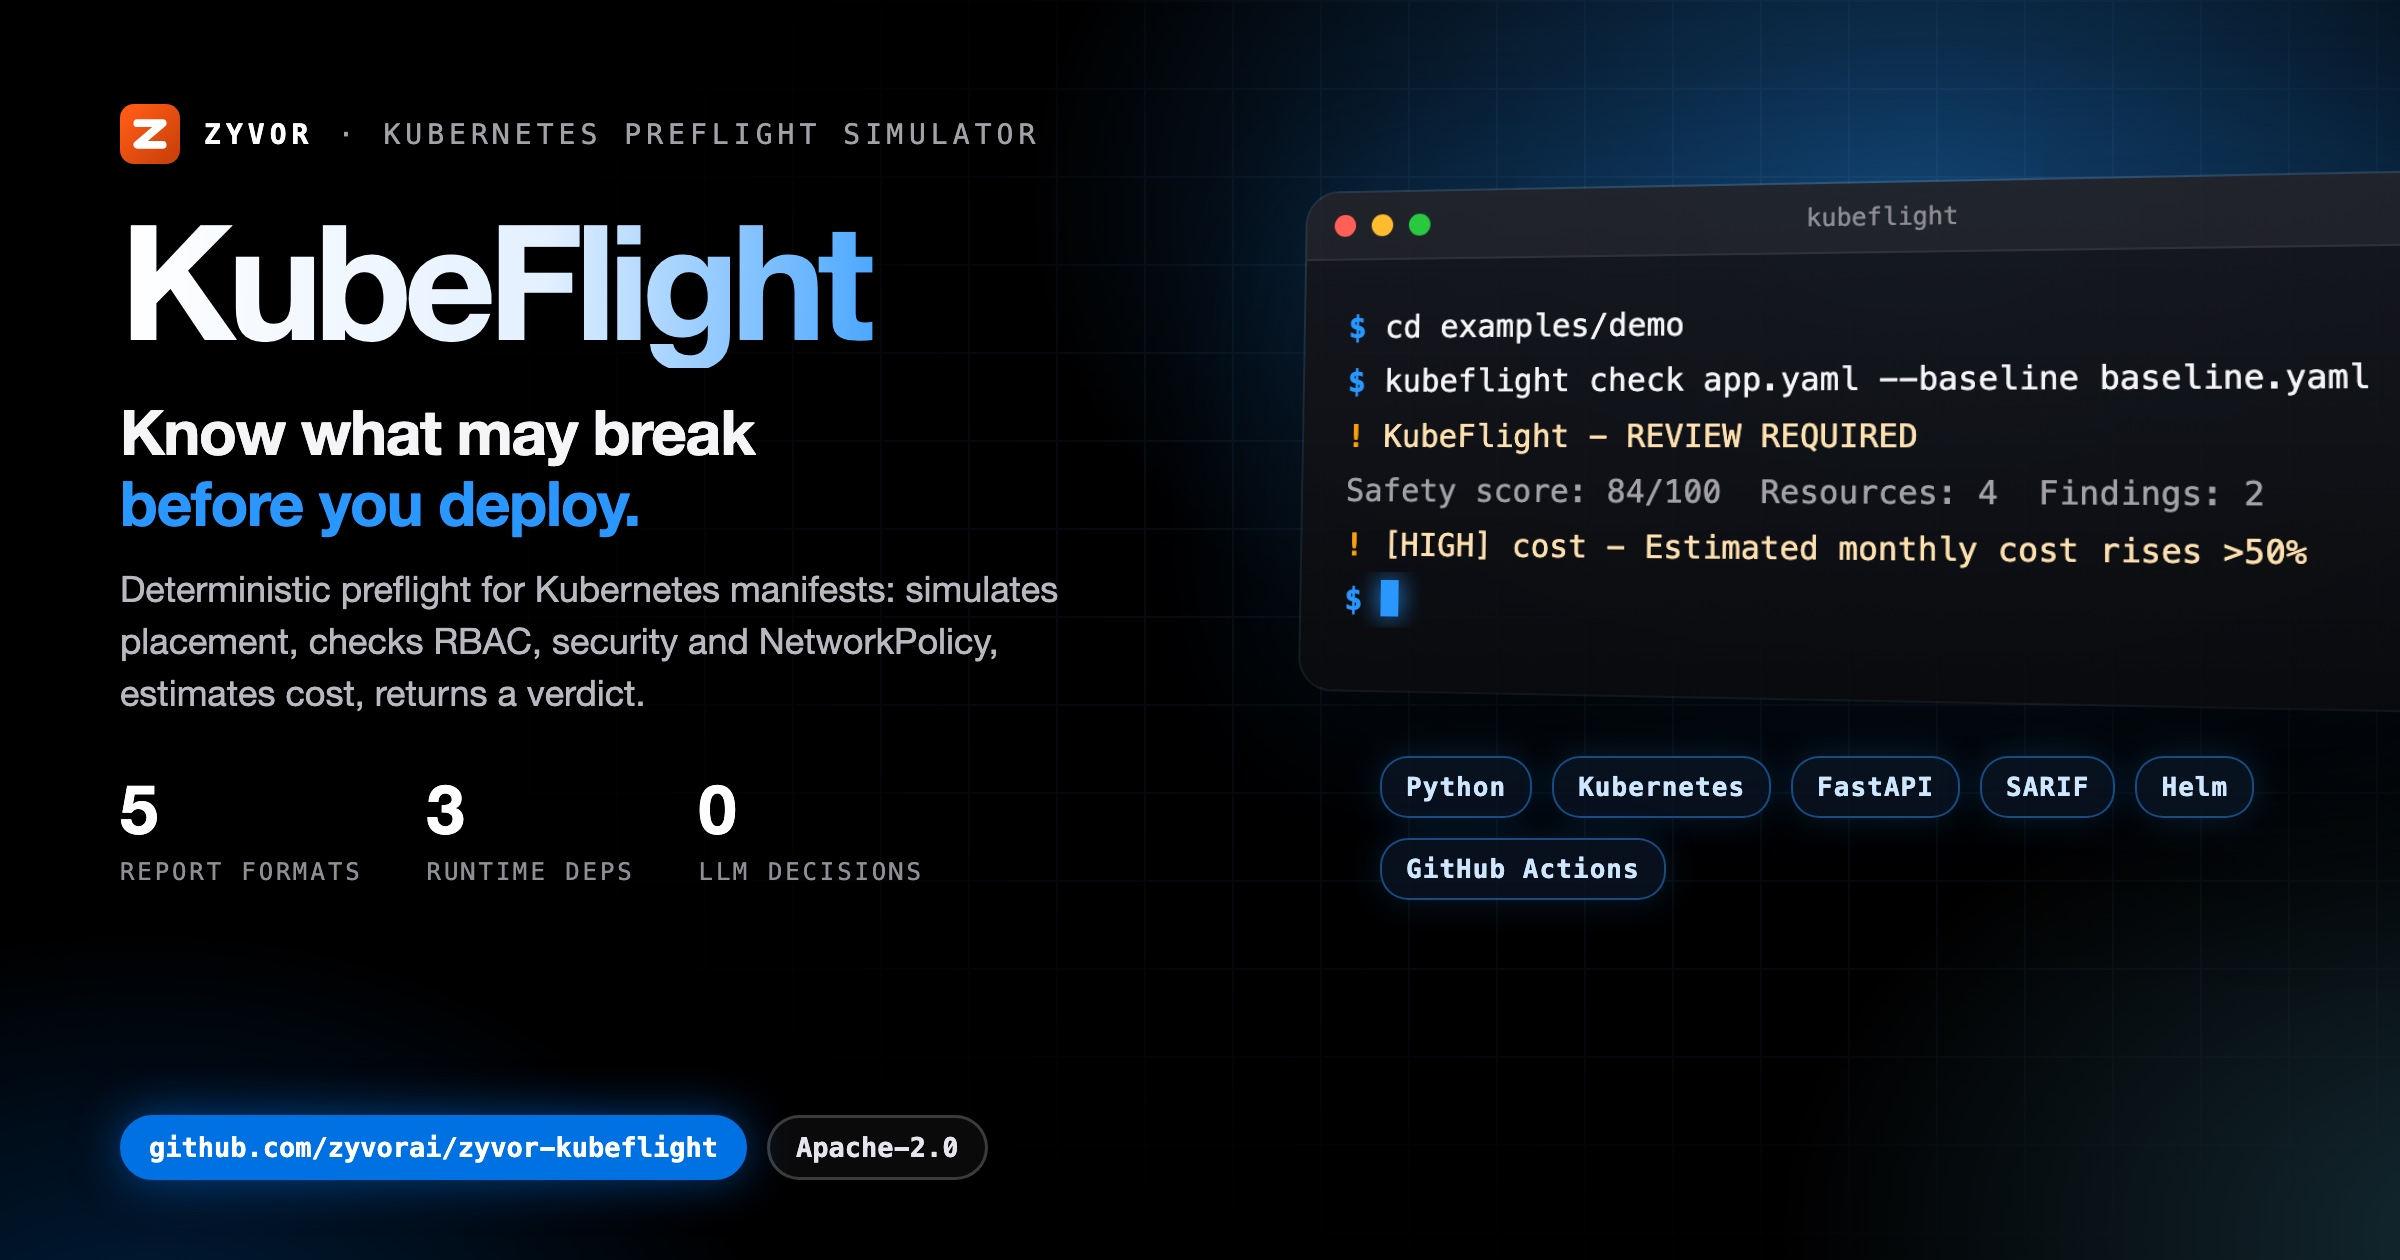
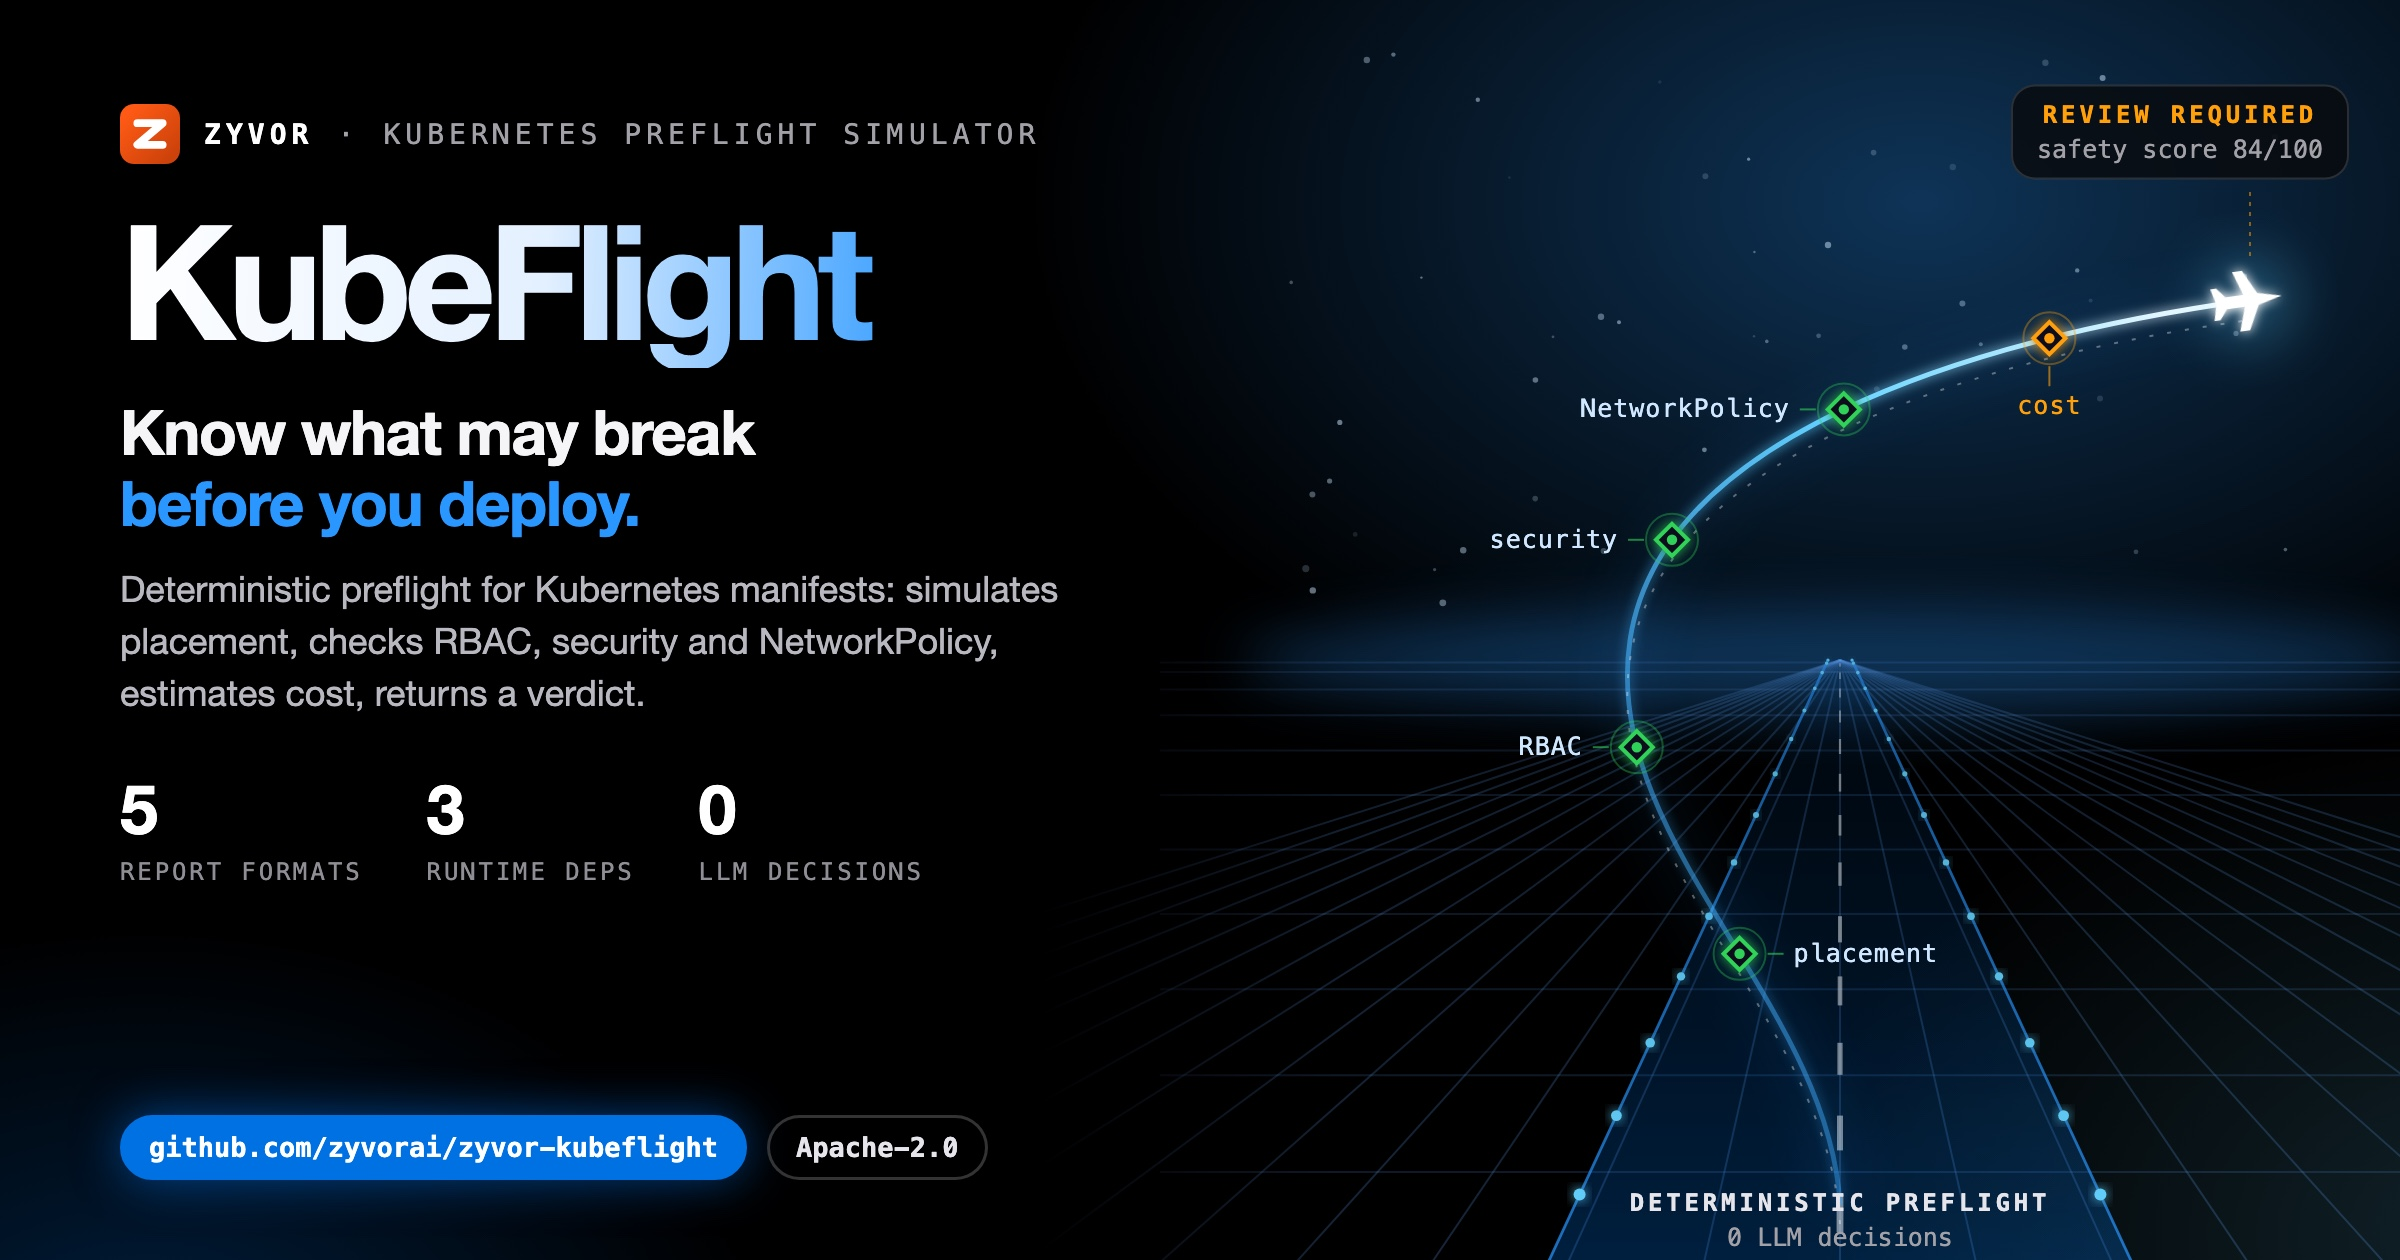
docs(social): unique illustrated hero card
Replace the shared terminal-window art with a motif drawn for this project;
same verified copy and stats on the left.

Changed region(s): [[0.5312, 0.0619, 1.0, 1.0], [0.9375, 0.7119, 1.0, 0.7429]]

diff --git a/docs/social/kubeflight-hero-dark.html b/docs/social/kubeflight-hero-dark.html
@@ -8,58 +8,47 @@
   Build: ./docs/social/build-hero-dark.sh  ->  kubeflight-hero-dark.jpg (2400x1260)
 -->
 <style>
-  :root { --blue:#0071e3; --signal:#2997ff; --cyan:#64d2ff; --green:#30d158; --amber:#ff9f0a;
+  :root { --blue:#0071e3; --signal:#2997ff; --cyan:#64d2ff; --green:#30d158; --amber:#ff9f0a; --red:#ff453a; --violet:#bf5af2;
     --sans:'SF Pro Display','Helvetica Neue',Helvetica,Arial,sans-serif; --mono:'SF Mono',Menlo,Consolas,monospace; }
   * { box-sizing:border-box; }
   html,body { margin:0; padding:0; }
   body { width:1200px; height:630px; overflow:hidden; color:#f5f5f7; font-family:var(--sans); position:relative; background:#000; }
   .aurora { position:absolute; inset:0;
-    background:radial-gradient(720px 460px at 80% 16%, rgba(41,151,255,.40), transparent 62%),
-               radial-gradient(600px 420px at 104% 98%, rgba(100,210,255,.20), transparent 60%),
+    background:radial-gradient(720px 460px at 80% 16%, rgba(41,151,255,.34), transparent 62%),
+               radial-gradient(600px 420px at 104% 98%, rgba(100,210,255,.16), transparent 60%),
                radial-gradient(520px 380px at 6% 110%, rgba(0,113,227,.28), transparent 60%); }
-  .grid { position:absolute; inset:0; opacity:.09;
-    background-image:linear-gradient(rgba(120,180,255,.9) 1px,transparent 1px),linear-gradient(90deg,rgba(120,180,255,.9) 1px,transparent 1px);
-    background-size:44px 44px; -webkit-mask-image:radial-gradient(900px 520px at 72% 42%, #000 18%, transparent 75%); }
-  .left { position:absolute; left:60px; top:52px; width:560px; z-index:3; }
+  .copy { position:absolute; left:60px; top:52px; width:560px; z-index:3; }
   .brand { display:flex; align-items:center; gap:12px; font-family:var(--mono); font-size:14px; letter-spacing:.18em; text-transform:uppercase; color:#a1a1a6; }
   .brand b { color:#fff; }
   .word { margin:20px 0 0; font-size:80px; line-height:.95; font-weight:800; letter-spacing:-.05em; white-space:nowrap;
     background:linear-gradient(92deg,#fff 0%,#e3f0ff 38%,var(--signal) 74%,var(--cyan) 100%); -webkit-background-clip:text; background-clip:text; color:transparent; padding-bottom:6px; }
   .tag { margin:14px 0 0; font-size:31px; line-height:1.15; font-weight:700; letter-spacing:-.02em; }
   .tag em { font-style:normal; color:var(--signal); }
-  .lede { margin:12px 0 0; font-size:18px; line-height:1.45; color:#b8b8bf; width:520px; }
+  .lede { margin:12px 0 0; font-size:18px; line-height:1.45; color:#b8b8bf; width:520px; text-shadow:0 1px 12px #000; }
   .stats { margin-top:24px; display:flex; gap:32px; }
   .stat b { display:block; font-size:34px; font-weight:800; letter-spacing:-.03em; color:#fff; }
   .stat span { font-family:var(--mono); font-size:12px; letter-spacing:.12em; text-transform:uppercase; color:#8e8e93; }
   .pill { position:absolute; left:60px; bottom:40px; display:flex; gap:10px; z-index:3; }
-  .pill span { font-family:var(--mono); font-size:13.5px; font-weight:700; padding:7px 13px; border-radius:18px; border:1.5px solid rgba(255,255,255,.2); color:#e5e5ea; background:rgba(255,255,255,.04); }
+  .pill span { font-family:var(--mono); font-size:13.5px; font-weight:700; padding:7px 13px; border-radius:18px; border:1.5px solid rgba(255,255,255,.2); color:#e5e5ea; background:rgba(0,0,0,.6); }
   .pill span.b { background:var(--blue); border-color:var(--blue); color:#fff; box-shadow:0 0 24px rgba(0,113,227,.55); }
-
-  .right { position:absolute; left:652px; top:96px; width:560px; z-index:2; }
-  .win { position:relative; width:560px; border-radius:16px; overflow:hidden; z-index:2;
-    background:linear-gradient(180deg, rgba(22,24,30,.94), rgba(10,11,14,.96));
-    box-shadow:0 50px 100px rgba(0,0,0,.75), 0 0 0 1px rgba(255,255,255,.14), 0 0 90px rgba(41,151,255,.22);
-    transform:perspective(1600px) rotateY(-14deg) rotateX(4deg); transform-origin:left center; }
-  .bar { height:34px; display:flex; align-items:center; gap:8px; padding:0 14px; background:rgba(255,255,255,.05); border-bottom:1px solid rgba(255,255,255,.07); }
-  .bar i { width:11px; height:11px; border-radius:50%; background:#ff5f57; } .bar i:nth-child(2){background:#febc2e} .bar i:nth-child(3){background:#28c840}
-  .bar em { margin-left:auto; margin-right:auto; font-style:normal; font-family:var(--mono); font-size:12px; color:#8e8e93; transform:translateX(-24px); }
-  .term { min-height:214px; padding:20px 22px 24px; font-family:var(--mono); font-size:15.5px; line-height:1.75; }
-  .l { white-space:pre; overflow:hidden; text-overflow:ellipsis; color:#f5f5f7; }
-  .l .p { color:var(--signal); font-weight:700; }
-  .l.out { color:#a1a1a6; }
-  .l.cm { color:#6e6e73; }
-  .l.ok { color:#d1f7dc; } .l.ok span { color:var(--green); font-weight:700; }
-  .l.warn { color:#ffe1b0; } .l.warn span { color:var(--amber); font-weight:700; }
-  .cur { display:inline-block; width:9px; height:18px; background:var(--signal); vertical-align:-3px; box-shadow:0 0 12px var(--signal); }
-  .chips { margin:34px 0 0 38px; width:480px; display:flex; flex-wrap:wrap; gap:10px; position:relative; z-index:3; }
-  .chips span { font-family:var(--mono); font-size:13px; font-weight:700; letter-spacing:.04em; padding:7px 12px; border-radius:14px;
-    color:#cfe6ff; background:rgba(10,20,35,.82); border:1px solid rgba(41,151,255,.45); box-shadow:0 0 18px rgba(41,151,255,.18); }
+  .art { position:absolute; left:520px; top:0; width:680px; height:630px; z-index:2; }
+  .art svg { display:block; }
+  #labels { position:absolute; inset:0; z-index:4; pointer-events:none; }
+  .lbl { position:absolute; font-family:var(--mono); font-size:12.5px; color:#a1a1a6; text-align:center; transform:translate(-50%,-50%); white-space:nowrap; }
+  .lbl b { display:block; font-size:12px; letter-spacing:.16em; text-transform:uppercase; color:#e5e5ea; }
+  .lbl span { display:block; margin-top:3px; }
+  .lbl.box { padding:7px 12px; border-radius:12px; background:rgba(8,10,14,.85); border:1px solid rgba(255,255,255,.14); }
+  .lbl.chip { padding:6px 11px; border-radius:13px; font-size:12.5px; font-weight:700; color:#cfe6ff; background:rgba(10,20,35,.85); border:1px solid rgba(41,151,255,.5); box-shadow:0 0 16px rgba(41,151,255,.2); }
+  .lbl.left { transform:translate(0,-50%); text-align:left; }
+  .lbl.right { transform:translate(-100%,-50%); text-align:right; }
+  .ok { color:var(--green) !important; } .warn { color:var(--amber) !important; } .bad { color:var(--red) !important; } .sig { color:var(--signal) !important; } .cy { color:var(--cyan) !important; } .vi { color:var(--violet) !important; }
 </style>
 </head>
 <body>
 <div class="aurora"></div>
-<div class="grid"></div>
-<div class="left">
+<div class="art"><svg id="art" width="680" height="630" viewBox="0 0 680 630" xmlns="http://www.w3.org/2000/svg"></svg></div>
+<div id="labels"></div>
+<div class="copy">
   <div class="brand"><svg viewBox="0 0 64 64" width="30" height="30" aria-hidden="true"><defs><linearGradient id="zb" x1="8" y1="8" x2="56" y2="56" gradientUnits="userSpaceOnUse"><stop offset="0" stop-color="#ff5a15"/><stop offset="1" stop-color="#cc420a"/></linearGradient></defs><rect width="64" height="64" rx="15" fill="url(#zb)"/><path d="M18.5,20.5 45.5,20.5 18.5,43.5 45.5,43.5" fill="none" stroke="#fff" stroke-width="8.3" stroke-linecap="round" stroke-linejoin="round"/></svg><b>Zyvor</b><span>&middot;</span><span>Kubernetes preflight simulator</span></div>
   <div class="word">KubeFlight</div>
   <div class="tag">Know what may break<br><em>before you deploy.</em></div>
@@ -67,8 +56,106 @@
   <div class="stats"><div class="stat"><b>5</b><span>report formats</span></div><div class="stat"><b>3</b><span>runtime deps</span></div><div class="stat"><b>0</b><span>LLM decisions</span></div></div>
 </div>
 <div class="pill"><span class="b">github.com/zyvorai/zyvor-kubeflight</span><span>Apache-2.0</span></div>
-<div class="right"><div class="win"><div class="bar"><i></i><i></i><i></i><em>kubeflight</em></div>
-<div class="term"><div class="l"><span class="p">$</span> cd examples/demo</div><div class="l"><span class="p">$</span> kubeflight check app.yaml --baseline baseline.yaml</div><div class="l warn"><span>!</span> KubeFlight - REVIEW REQUIRED</div><div class="l out">Safety score: 84/100  Resources: 4  Findings: 2</div><div class="l warn"><span>!</span> [HIGH] cost - Estimated monthly cost rises &gt;50%</div><div class="l"><span class="p">$</span> <i class="cur"></i></div></div></div>
-<div class="chips"><span>Python</span><span>Kubernetes</span><span>FastAPI</span><span>SARIF</span><span>Helm</span><span>GitHub Actions</span></div></div>
+<script>
+var Z = (function () {
+  var NS = 'http://www.w3.org/2000/svg', svg = document.getElementById('art'), labels = document.getElementById('labels');
+  var seed = 20261004;
+  function rnd() { seed = (seed * 1103515245 + 12345) % 2147483648; return seed / 2147483648; }
+  function el(tag, a, parent) { var n = document.createElementNS(NS, tag); for (var k in a) n.setAttribute(k, a[k]); (parent || svg).appendChild(n); return n; }
+  function g(attrs) { return el('g', attrs || {}); }
+  function label(x, y, inner, cls, style) { var d = document.createElement('div'); d.className = 'lbl ' + (cls || ''); d.style.left = (520 + x) + 'px'; d.style.top = y + 'px'; if (style) d.setAttribute('style', d.getAttribute('style') + ';' + style); d.innerHTML = inner; labels.appendChild(d); return d; }
+  return { NS: NS, svg: svg, W: 680, H: 630, rnd: rnd, el: el, g: g, label: label,
+    reseed: function (s) { seed = s; },
+    c: { blue: '#0071e3', signal: '#2997ff', cyan: '#64d2ff', green: '#30d158', amber: '#ff9f0a', red: '#ff453a', violet: '#bf5af2', teal: '#40c8e0', indigo: '#5e5ce6', pink: '#ff375f', white: '#f5f5f7', grey: '#8e8e93' } };
+})();
+(function () {
+// KubeFlight: a take-off trajectory over a perspective runway grid; five preflight checkpoints along the climb
+// and a final verdict gate at the top.
+var C = Z.c, vx = 400, hy = 330;
+var defs = Z.el('defs', {});
+defs.innerHTML = '<filter id="kf-gl" x="-50%" y="-50%" width="200%" height="200%"><feGaussianBlur stdDeviation="3" result="b"/><feMerge><feMergeNode in="b"/><feMergeNode in="SourceGraphic"/></feMerge></filter>' +
+  '<filter id="kf-sf" x="-50%" y="-50%" width="200%" height="200%"><feGaussianBlur stdDeviation="14"/></filter>' +
+  '<linearGradient id="kf-fade" x1="0" y1="0" x2="0" y2="1"><stop offset="0" stop-color="#fff" stop-opacity="0"/><stop offset=".35" stop-color="#fff" stop-opacity=".7"/><stop offset="1" stop-color="#fff" stop-opacity="1"/></linearGradient>' +
+  '<linearGradient id="kf-fadex" x1="0" y1="0" x2="1" y2="0"><stop offset="0" stop-color="#000"/><stop offset=".22" stop-color="#fff"/><stop offset="1" stop-color="#fff"/></linearGradient>' +
+  '<mask id="kf-m"><rect x="0" y="0" width="680" height="630" fill="url(#kf-fade)"/></mask>' +
+  '<mask id="kf-mx"><rect x="0" y="0" width="680" height="630" fill="url(#kf-fadex)"/></mask>' +
+  '<linearGradient id="kf-trail" x1="0" y1="1" x2="1" y2="0"><stop offset="0" stop-color="#2997ff" stop-opacity=".15"/><stop offset=".6" stop-color="#64d2ff"/><stop offset="1" stop-color="#ffffff"/></linearGradient>' +
+  '<linearGradient id="kf-rw" x1="0" y1="0" x2="0" y2="1"><stop offset="0" stop-color="#0071e3" stop-opacity=".05"/><stop offset="1" stop-color="#0071e3" stop-opacity=".28"/></linearGradient>';
+function f(v) { return v.toFixed(1); }
+
+// horizon glow
+Z.el('ellipse', { cx: vx, cy: hy, rx: 300, ry: 26, fill: '#2997ff', opacity: .28, filter: 'url(#kf-sf)' });
+
+// perspective ground grid, masked to fade toward horizon and away from the left text
+var gx = Z.g({ mask: 'url(#kf-mx)' }), gg = Z.g({ mask: 'url(#kf-m)' }, gx);
+gx.appendChild(gg);
+for (var k = -14; k <= 14; k++) {
+  var bx = vx + k * 70;
+  Z.el('line', { x1: vx, y1: hy, x2: bx, y2: 640, stroke: 'rgba(100,170,255,.22)', 'stroke-width': 1 }, gg);
+}
+for (var k = 1; k <= 12; k++) {
+  var y = hy + (640 - hy) * Math.pow(k / 12, 2.2);
+  Z.el('line', { x1: 60, y1: f(y), x2: 680, y2: f(y), stroke: 'rgba(100,170,255,.16)', 'stroke-width': 1 }, gg);
+}
+// runway
+var rwL = vx - 150, rwR = vx + 150;
+Z.el('path', { d: 'M' + (vx - 6) + ',' + hy + ' L' + (vx + 6) + ',' + hy + ' L' + rwR + ',640 L' + rwL + ',640Z', fill: 'url(#kf-rw)' }, gg);
+Z.el('line', { x1: vx - 6, y1: hy, x2: rwL, y2: 640, stroke: C.signal, 'stroke-width': 1.4, opacity: .7 }, gg);
+Z.el('line', { x1: vx + 6, y1: hy, x2: rwR, y2: 640, stroke: C.signal, 'stroke-width': 1.4, opacity: .7 }, gg);
+for (var k = 0; k < 14; k++) {
+  var t0 = Math.pow(k / 14, 2), t1 = Math.pow((k + 0.45) / 14, 2);
+  var y0 = hy + (640 - hy) * t0, y1 = hy + (640 - hy) * t1;
+  Z.el('line', { x1: vx, y1: f(y0), x2: vx, y2: f(y1), stroke: '#fff', 'stroke-width': (0.6 + t1 * 3).toFixed(1), opacity: .5 }, gg);
+  var lx = vx - 6 - (150 - 6) * t0, rx = vx + 6 + (150 - 6) * t0;
+  Z.el('circle', { cx: f(lx), cy: f(y0), r: (0.8 + t0 * 2.6).toFixed(1), fill: C.cyan, filter: 'url(#kf-gl)' }, gg);
+  Z.el('circle', { cx: f(rx), cy: f(y0), r: (0.8 + t0 * 2.6).toFixed(1), fill: C.cyan, filter: 'url(#kf-gl)' }, gg);
+}
+
+// stars
+for (var i = 0; i < 46; i++) { var x = 120 + Z.rnd() * 540, y = 24 + Z.rnd() * 280; Z.el('circle', { cx: f(x), cy: f(y), r: (0.6 + Z.rnd() * 1.2).toFixed(1), fill: '#cfe8ff', opacity: (0.1 + Z.rnd() * 0.4).toFixed(2) }); }
+
+// trajectory: from the runway threshold climbing up and to the right
+var d = 'M' + vx + ',602 C' + (vx - 6) + ',500 ' + (vx - 120) + ',420 ' + (vx - 105) + ',320 C' + (vx - 90) + ',220 ' + (vx + 60) + ',170 ' + (vx + 205) + ',150';
+var path = Z.el('path', { d: d, fill: 'none', stroke: 'none' });
+var L = path.getTotalLength();
+Z.el('path', { d: d, fill: 'none', stroke: C.signal, 'stroke-width': 12, opacity: .12, filter: 'url(#kf-sf)' });
+Z.el('path', { d: d, fill: 'none', stroke: 'url(#kf-trail)', 'stroke-width': 2.4, filter: 'url(#kf-gl)' });
+Z.el('path', { d: d, fill: 'none', stroke: 'rgba(255,255,255,.35)', 'stroke-width': 1, 'stroke-dasharray': '2 7', transform: 'translate(0,10)' });
+
+// checkpoints
+var cps = [
+  { t: 0.2, n: 'placement', c: C.green, side: 1 },
+  { t: 0.37, n: 'RBAC', c: C.green, side: -1 },
+  { t: 0.53, n: 'security', c: C.green, side: -1 },
+  { t: 0.69, n: 'NetworkPolicy', c: C.green, side: -1 },
+  { t: 0.85, n: 'cost', c: C.amber, side: 0 }
+];
+cps.forEach(function (cp) {
+  var p = path.getPointAtLength(L * cp.t);
+  var g = Z.g({ transform: 'translate(' + f(p.x) + ',' + f(p.y) + ')' });
+  Z.el('circle', { r: 13, fill: 'none', stroke: cp.c, 'stroke-width': 1, opacity: .35 }, g);
+  Z.el('path', { d: 'M0,-8 L8,0 L0,8 L-8,0Z', fill: '#07101c', stroke: cp.c, 'stroke-width': 2, filter: 'url(#kf-gl)' }, g);
+  Z.el('circle', { r: 2.6, fill: cp.c }, g);
+  var lx = p.x + cp.side * 22, below = cp.side === 0;
+  if (below) Z.el('line', { x1: f(p.x), y1: f(p.y + 14), x2: f(p.x), y2: f(p.y + 24), stroke: cp.c, opacity: .6 });
+  else Z.el('line', { x1: f(p.x + cp.side * 14), y1: f(p.y), x2: f(lx), y2: f(p.y), stroke: cp.c, opacity: .6 });
+  var tx = Z.el('text', { x: f(below ? p.x : lx + cp.side * 5), y: f(below ? p.y + 38 : p.y + 4), fill: cp.c === C.amber ? C.amber : '#cfe8ff', 'font-family': 'ui-monospace, SFMono-Regular, Menlo, monospace', 'font-size': 12.5, 'letter-spacing': '.04em', 'text-anchor': below ? 'middle' : (cp.side > 0 ? 'start' : 'end') });
+  tx.textContent = cp.n;
+});
+
+// aircraft at the end of the path
+var pe = path.getPointAtLength(L), pb = path.getPointAtLength(L - 4);
+var ang = Math.atan2(pe.y - pb.y, pe.x - pb.x) * 180 / Math.PI;
+var ac = Z.g({ transform: 'translate(' + f(pe.x) + ',' + f(pe.y) + ') rotate(' + f(ang) + ')' });
+Z.el('circle', { r: 22, fill: C.cyan, opacity: .3, filter: 'url(#kf-sf)' }, ac);
+Z.el('path', { d: 'M16,0 L4,-3 L-2,-15 L-7,-15 L-3,-3 L-12,-3 L-16,-8 L-19,-8 L-17,0 L-19,8 L-16,8 L-12,3 L-3,3 L-7,15 L-2,15 L4,3Z', fill: '#fff', filter: 'url(#kf-gl)' }, ac);
+
+// verdict
+var pv = path.getPointAtLength(L);
+Z.el('line', { x1: f(pv.x), y1: f(pv.y - 22), x2: f(pv.x), y2: 96, stroke: C.amber, 'stroke-width': 1, opacity: .5, 'stroke-dasharray': '2 3' });
+Z.label(Math.min(pv.x, 570), 66, '<b class="warn">REVIEW REQUIRED</b><span>safety score 84/100</span>', 'box');
+Z.label(vx, 610, '<b>deterministic preflight</b><span>0 LLM decisions</span>');
+})();
+</script>
 </body>
 </html>
